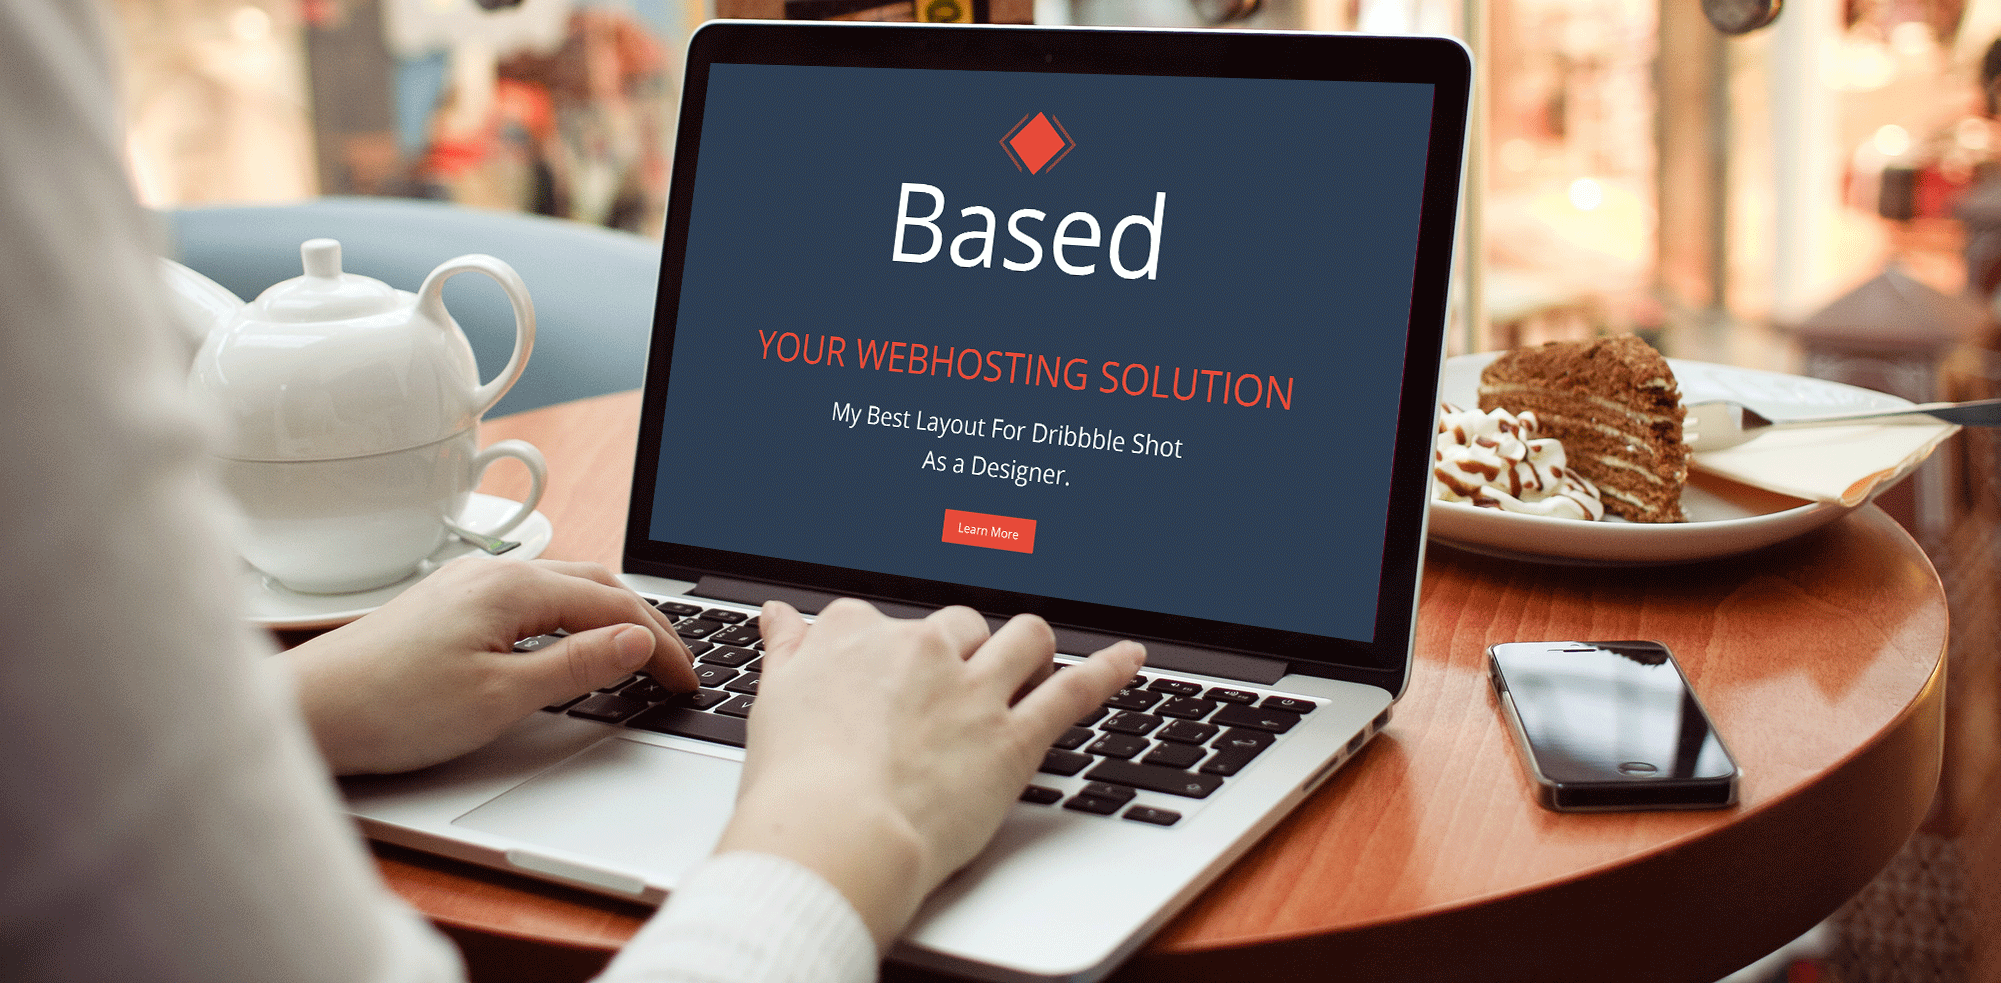
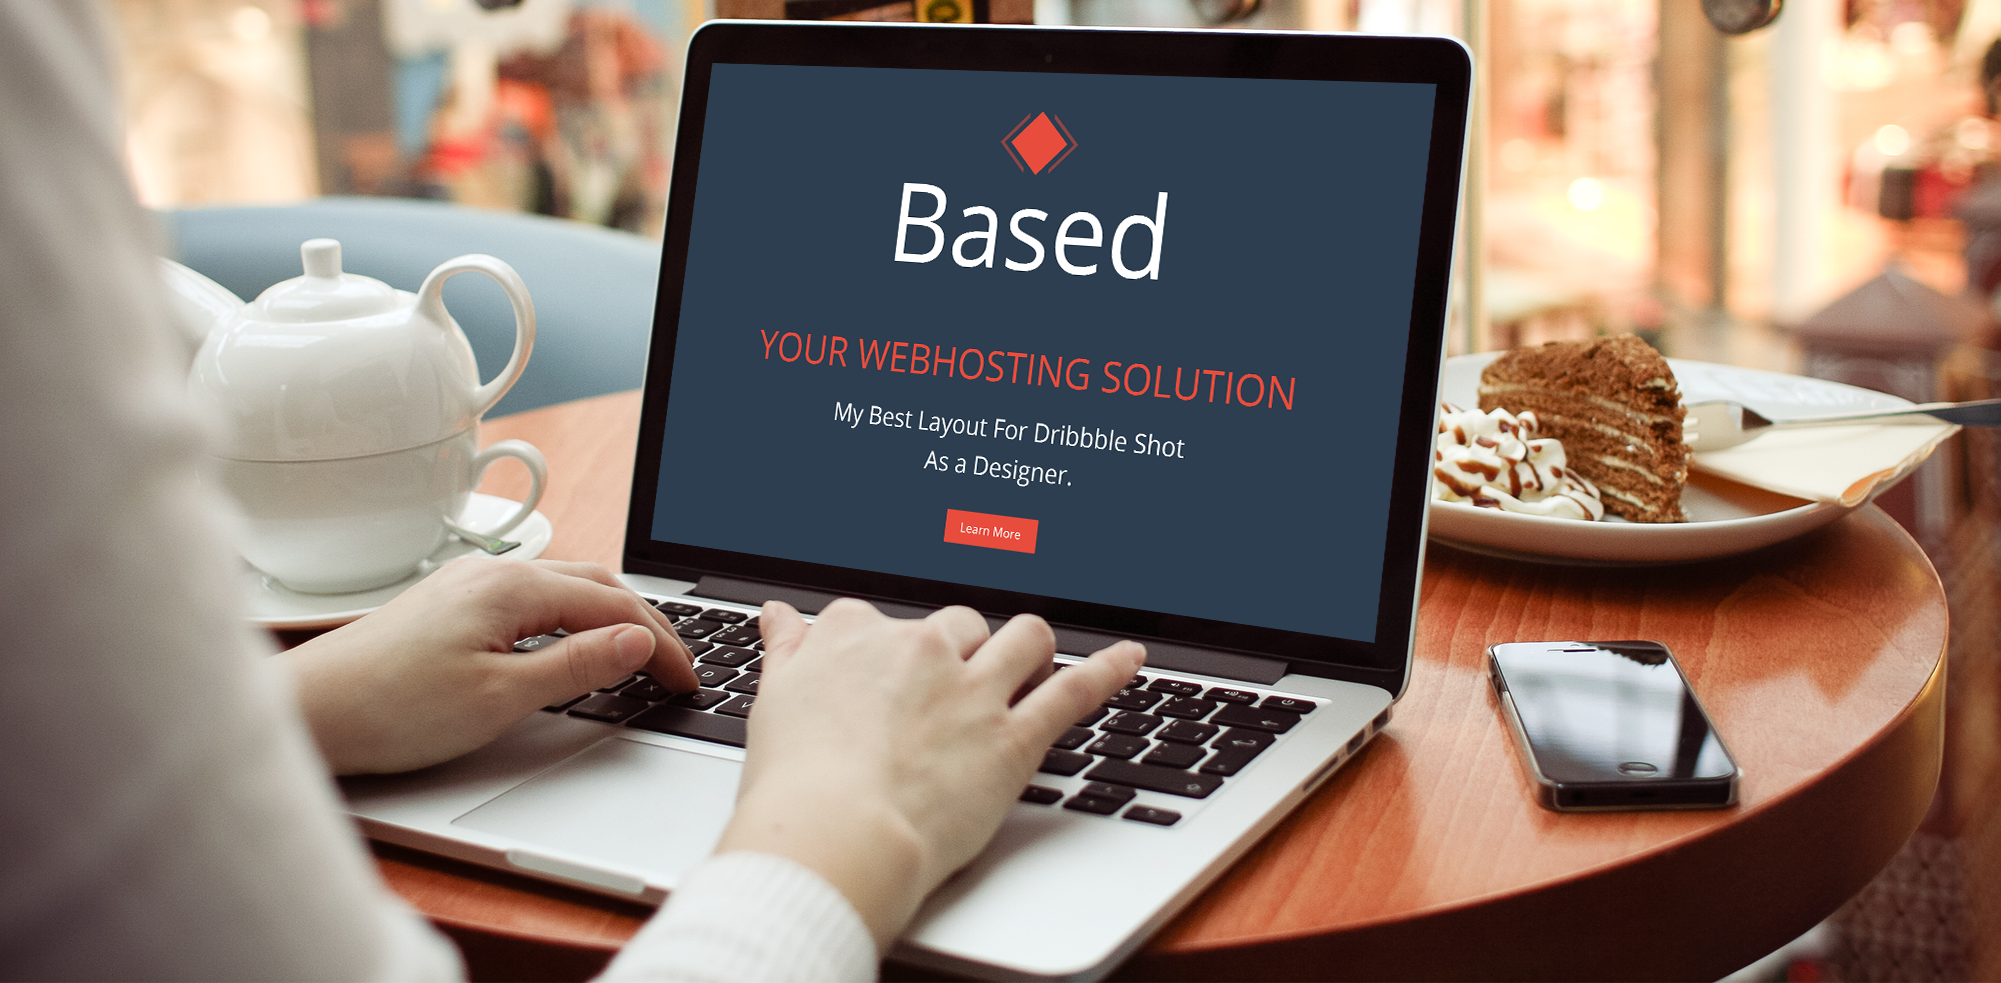
test

diff --git a/css/main.css b/css/main.css
@@ -16,7 +16,7 @@ header {
 	display: flex;
 	height: 835px;
 	width: 100%;
-	background: url(../img/based.jpg) no-repeat top;
+	background: url(../img/based.png) no-repeat top;
 	background-size: cover;
 	
 }
@@ -35,18 +35,22 @@ header {
 	justify-content: space-between;
 	width: 660px;
 }
-.navlist li, .hiddenMenu li {
-	color: #527393; 
-	list-style: none;
+.navlist li a, .hiddenMenu li a {
+	text-decoration: none;
+	color: #527393;
 	font-size: 15px;
-	
 }
-.navlist li:hover, .hiddenMenu li:hover {
-	color: white;
+.navlist li, .hiddenMenu li { 
+	list-style: none;
 }
+.navlist>li :hover, .hiddenMenu>li :hover  {
+	color: white ;
+}
+
 .hiddenMenu {
 	position:absolute;
 	left: 5%;
+	background-color:#2c3e50;
 }
 .button {
 	background-color: #e74c3c;
@@ -85,6 +89,7 @@ h2 {
 .about figure {
 	display: inline-block;
 	width: 250px;
+	margin: 5% 3%;
 }
 .about figure p {
 	font-size: 15px;
@@ -165,7 +170,12 @@ h2 {
 	background:url(../img/pic-7.png) no-repeat center;
 }
 .img8 {
-	background:url(../img/pic-8.png) no-repeat center;
+	display:flex;
+	align-items: flex-end;
+	justify-content: center; 
+	background:url(../img/pic-8.png) no-repeat center;	
+	color: white;
+	font-size: 30px;
 }
 .img9 {
 	background:url(../img/pic-9.png) no-repeat center;
@@ -182,6 +192,57 @@ h2 {
 .img15 {
 	margin-bottom: 70px;
 }
+.slider {
+	display: none;
+	 z-index: 9;
+	 width: calc(100vw - 17px);
+	 max-width: 500px;
+	 overflow: hidden;
+	 margin: 0 auto;
+	 margin-top: 15px;
+	 position: relative;
+ }
+ .slider ul,
+ .slider li {
+	 padding: 0;
+	 margin: 0;
+	 list-style-type: none;
+ }
+ .slider ul {
+	 width: 9999px; 
+ }
+ .slider ul li {
+	 list-style-type: none;
+	 float: left;
+	 width: calc(100vw - 17px);
+	 max-width: 500px;
+ }
+ .slider .navs {
+	 position: absolute;
+	 left: 22%;
+	 bottom: 12px;
+
+ }
+ .slider .navs span {
+	 opacity: 0.9;
+	 background: #fff;
+	 margin: 0 8px 0 0;
+	 width: 16px;
+	 height: 16px;
+	 border-radius: 8px;
+	 cursor: pointer;
+	 overflow: hidden;
+	 display: block;
+	 float: left;
+	 box-shadow: 0 1px 2px #000;
+ }
+ .slider .navs span.on {
+	 background: #2e9419;
+ }
+ .slider li img {
+ 	width: calc(100vw - 16px);
+ 	max-width: 422px;
+ }
 .email {
 	background: #2c3e50;
 	color: white;
@@ -198,6 +259,7 @@ h2 {
 	border: 0;
 	padding: 4px 20px;
 	font-size: 18px;
+	margin: 0 15px 50px;
 }
 .email button:focus {
 	outline: none;
@@ -211,7 +273,13 @@ form [name="email"] {
 	border: 0;
 	padding: 0 0 0 15px;
 	border-radius: 4px;
-	margin: 10px 25px 60px 0;
+	margin: 0 13px 20px 13px;
+}
+form {
+	display: flex;
+	justify-content: center;
+	flex-wrap: wrap;
+	align-items: flex-start;
 }
 .team p{
 	font-family:'Georgia';
@@ -259,7 +327,9 @@ form [name="email"] {
 }
 .right a{
 	text-decoration: none;
-
+}
+.footer .right a:hover {
+	color:white;
 }
 .right a:link {
 	color:#677d93;
@@ -298,12 +368,11 @@ color:#677d93;
 		
 	}
 	.hiddenMenu li {
-		background: lightgrey;
+		/*background: lightgrey;*/
 		line-height: 2;
 		padding: 0 20px;
-		border-bottom: 2px solid lightgrey;
+		border-bottom: 2px solid  #2c3e50;
 		margin:0;
-		cursor: pointer;
 	}
 	.hiddenMenu li:hover {
 		border-bottom: 2px solid white;
@@ -313,50 +382,21 @@ color:#677d93;
 		flex-basis: 33.33%;
 		height: 302px;
 
-}
+	}
 
 }
-.slider {
- z-index: 9;
- width: 422px;
- height: 290px;
- overflow: hidden;
- margin: 0 auto;
- position: relative;
- }
- .slider ul,
- .slider li {
- padding: 0;
- margin: 0;
- list-style-type: none;
- }
- .slider ul {
- width: 9999px; 
- }
- .slider ul li {
- list-style-type: none;
- float: left;
- width: 422px;
- height: 290px;
- }
- .slider .navs {
- position: absolute;
- left: 15px;
- bottom: 12px; 
- }
- .slider .navs span {
- opacity: 0.9;
- background: #fff;
- margin: 0 8px 0 0;
- width: 16px;
- height: 16px;
- border-radius: 8px;
- cursor: pointer;
- overflow: hidden;
- display: block;
- float: left;
- box-shadow: 0 1px 2px #000;
- }
- .slider .navs span.on {
- background: #2e9419;
- }
+@media all and (max-width: 720px){
+	.slider {
+		display: block;
+	}
+	.imgs {
+		display: none;
+	}
+}
+@media all and (max-width: 420px) {
+	.slider .navs {
+	 left: 8%;
+	}
+}
+
+

diff --git a/index.html b/index.html
@@ -4,6 +4,7 @@
 		<meta charset="UTF-8">
 		<title>Based</title>
 		<meta name="viewport" content="width=device-width, initial-scale=1">
+		<link rel="shortcut icon" href="./img/favicon.png" type="image/png">
 		<link href="https://fonts.googleapis.com/css?family=Open+Sans:300,400,600" rel="stylesheet">
 		<link rel="stylesheet" href="./css/main.css">
 		<link rel="stylesheet" href="./css/normalize.css">
@@ -91,15 +92,15 @@
 			<a href="#">illustations /</a>
 			<a href="#">Logo /</a>
 			<a href="#">Photo </a>
-			<!-- <div class="imgs">
-				<div class="img1">   </div>
+			<div class="imgs">
+				<div class="img1"></div>
 				<div class="img2"></div>
 				<div class="img3"></div>
 				<div class="img4"></div>
 				<div class="img5"></div>
 				<div class="img6"></div>
 				<div class="img7"></div>
-				<div class="img8"></div>
+				<div class="img8">Development Mobile</div>
 				<div class="img9"></div>
 				<div class="img10"></div>
 				<div class="img11"></div>
@@ -107,7 +108,7 @@
 				<div class="img13"></div>
 				<div class="img14"></div>
 				<div class="img15"></div>
-			</div> -->
+			</div>
 			<div class="slider">
 				<ul>
 					<li><img src="./img/pic-1-13.png" alt=""></li>
